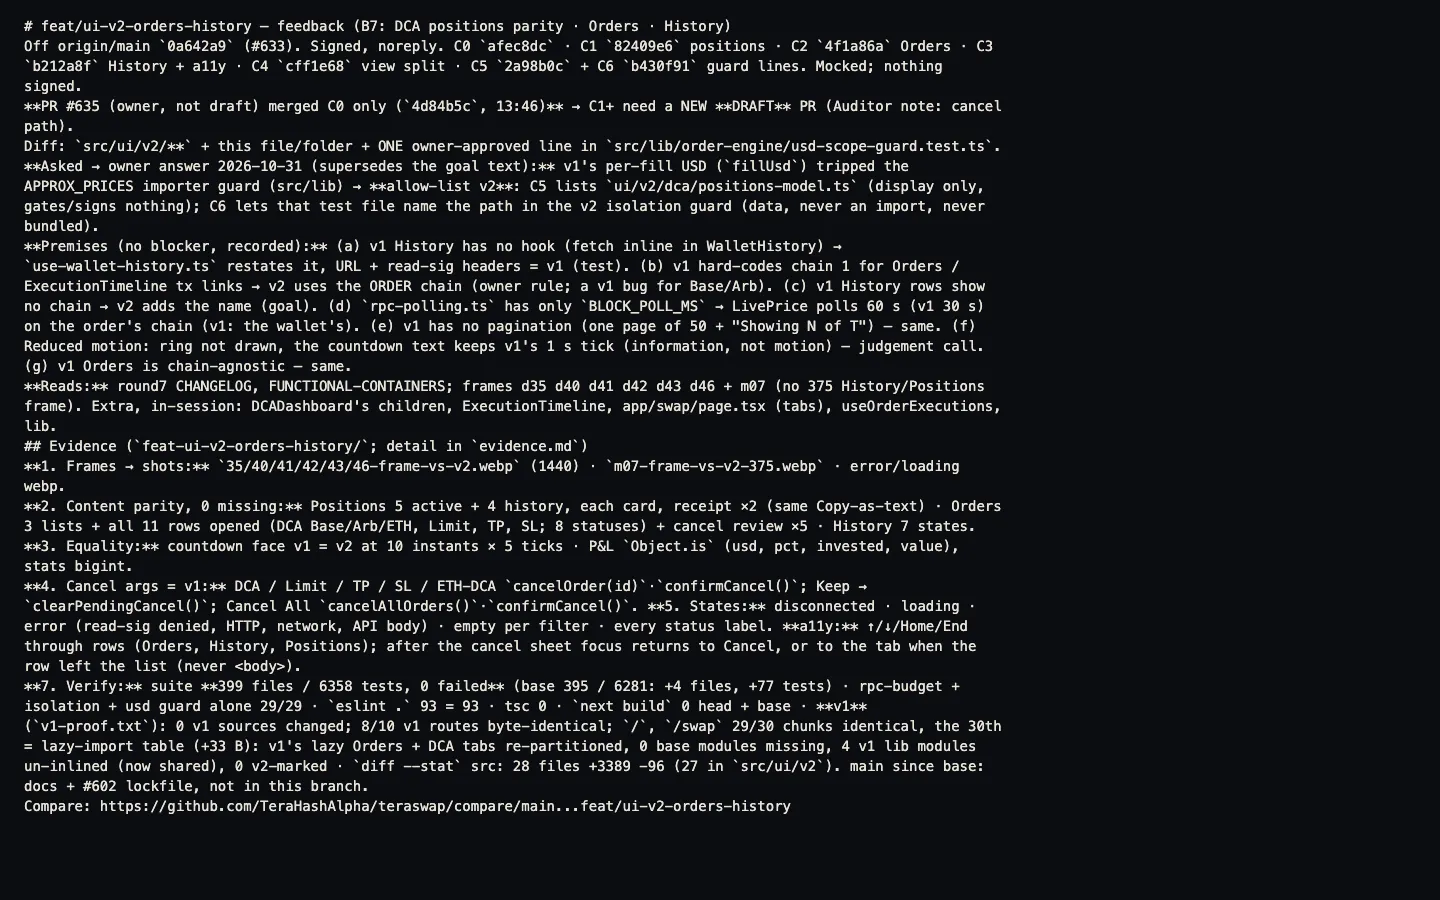
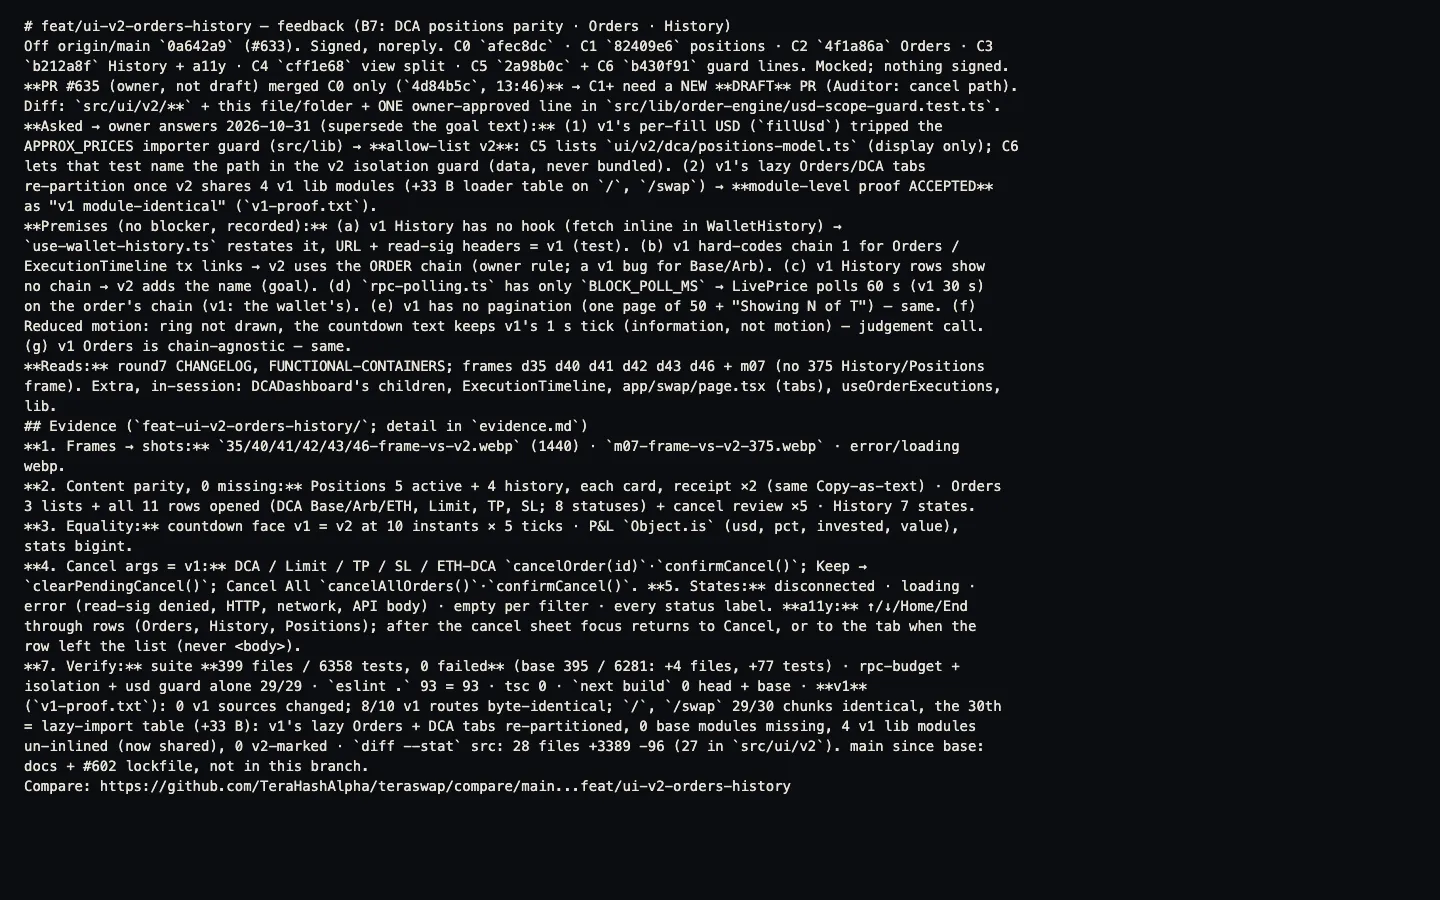
docs(ui-v2/orders-history): record owner answer — module-level v1 proof accepted (B7)
The v1 lazy Orders/DCA tab groups re-partition once v2 shares four v1 lib modules
(+33 B lazy-import table on / and /swap; 0 v1 sources changed, every base module
present, 0 v2 code in v1 chunks). Owner 2026-10-31: accepted as the 'v1 module-
identical' check. Recorded in the feedback header and v1-proof.txt.

Changed region(s): [[0.0, 0.0622, 0.7188, 0.9022]]

diff --git a/docs/feedback/feat-ui-v2-orders-history.md b/docs/feedback/feat-ui-v2-orders-history.md
@@ -1,14 +1,13 @@
 # feat/ui-v2-orders-history — feedback (B7: DCA positions parity · Orders · History)
 Off origin/main `0a642a9` (#633). Signed, noreply. C0 `afec8dc` · C1 `82409e6` positions · C2 `4f1a86a` Orders · C3
-`b212a8f` History + a11y · C4 `cff1e68` view split · C5 `2a98b0c` + C6 `b430f91` guard lines. Mocked; nothing
-signed.
-**PR #635 (owner, not draft) merged C0 only (`4d84b5c`, 13:46)** → C1+ need a NEW **DRAFT** PR (Auditor note: cancel
-path).
+`b212a8f` History + a11y · C4 `cff1e68` view split · C5 `2a98b0c` + C6 `b430f91` guard lines. Mocked; nothing signed.
+**PR #635 (owner, not draft) merged C0 only (`4d84b5c`, 13:46)** → C1+ need a NEW **DRAFT** PR (Auditor: cancel path).
 Diff: `src/ui/v2/**` + this file/folder + ONE owner-approved line in `src/lib/order-engine/usd-scope-guard.test.ts`.
-**Asked → owner answer 2026-10-31 (supersedes the goal text):** v1's per-fill USD (`fillUsd`) tripped the
-APPROX_PRICES importer guard (src/lib) → **allow-list v2**: C5 lists `ui/v2/dca/positions-model.ts` (display only,
-gates/signs nothing); C6 lets that test file name the path in the v2 isolation guard (data, never an import, never
-bundled).
+**Asked → owner answers 2026-10-31 (supersede the goal text):** (1) v1's per-fill USD (`fillUsd`) tripped the
+APPROX_PRICES importer guard (src/lib) → **allow-list v2**: C5 lists `ui/v2/dca/positions-model.ts` (display only); C6
+lets that test name the path in the v2 isolation guard (data, never bundled). (2) v1's lazy Orders/DCA tabs
+re-partition once v2 shares 4 v1 lib modules (+33 B loader table on `/`, `/swap`) → **module-level proof ACCEPTED**
+as "v1 module-identical" (`v1-proof.txt`).
 **Premises (no blocker, recorded):** (a) v1 History has no hook (fetch inline in WalletHistory) →
 `use-wallet-history.ts` restates it, URL + read-sig headers = v1 (test). (b) v1 hard-codes chain 1 for Orders /
 ExecutionTimeline tx links → v2 uses the ORDER chain (owner rule; a v1 bug for Base/Arb). (c) v1 History rows show
